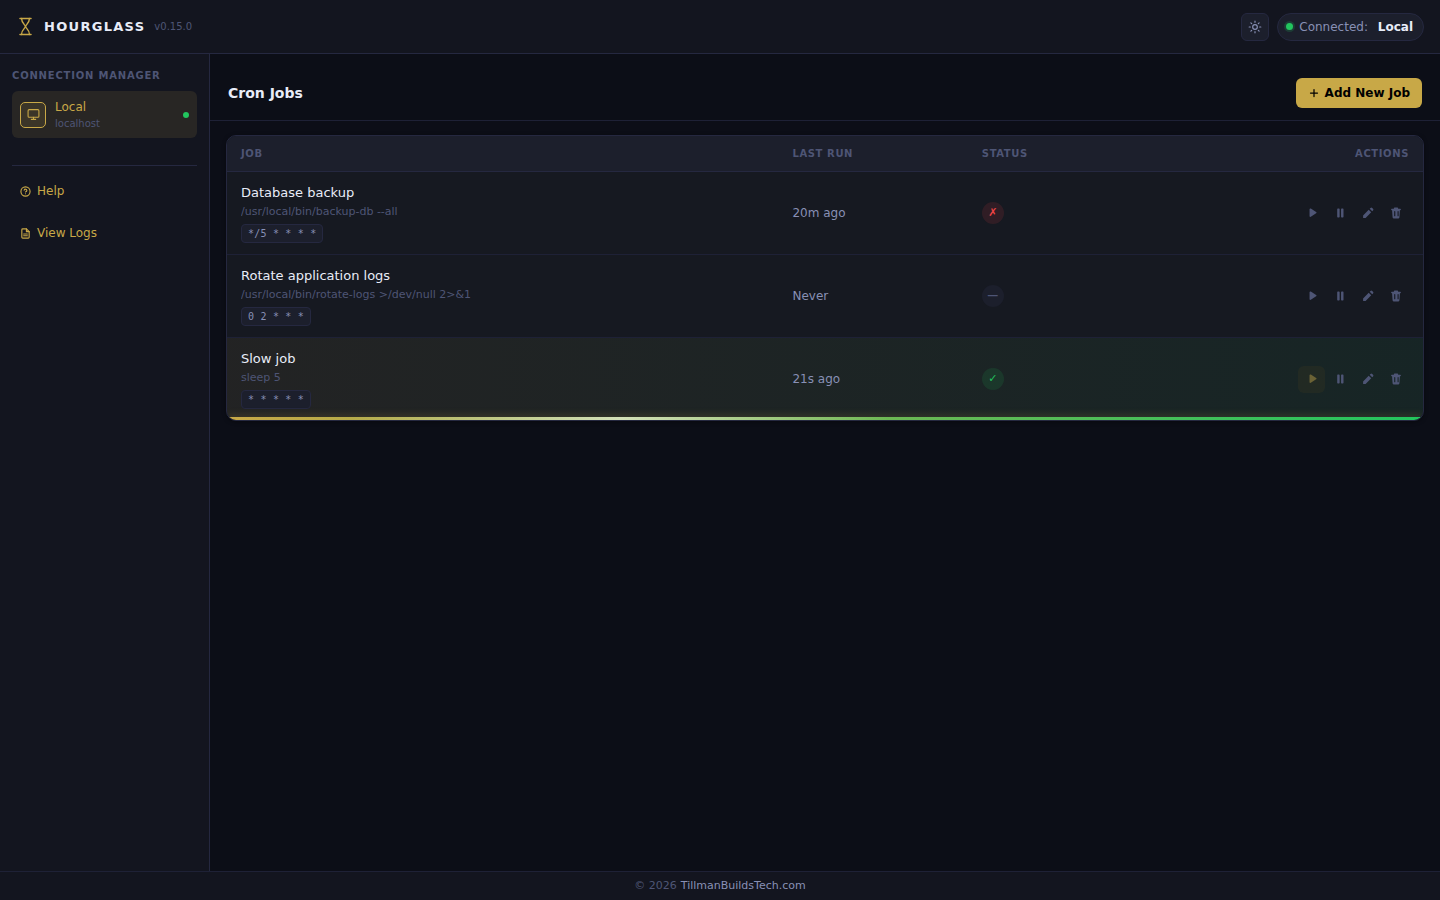
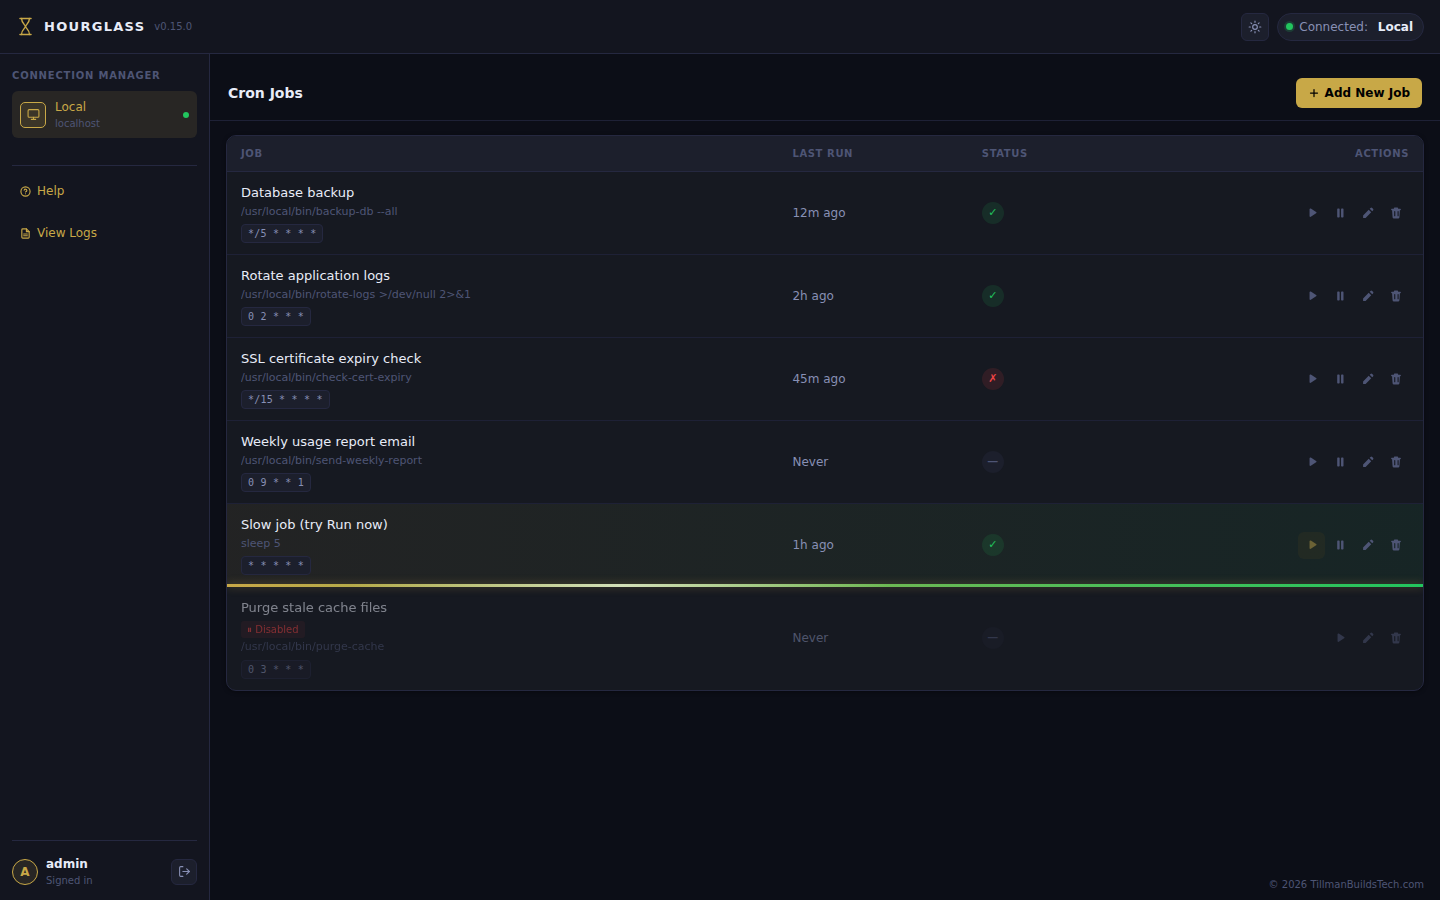
fix(ui): render the copyright as plain text at the bottom of the main view
Drop the full-width footer bar (border-top + background) and show
'© 2026 TillmanBuildsTech.com' as small muted text pinned to the
bottom of the main content column. E2E updated: no .app-footer, no
link, text flush to the bottom of <main>.

diff --git a/e2e/hourglass.spec.js b/e2e/hourglass.spec.js
@@ -62,14 +62,20 @@ test.describe('Hourglass UI', () => {
     await expect(page.locator('#connections-panel .divider')).toHaveCount(2);
   });
 
-  test('shows the TillmanBuildsTech copyright footer at the bottom of the page', async ({ page }) => {
+  test('shows the TillmanBuildsTech copyright as plain text at the bottom of the main view', async ({ page }) => {
     await page.goto('/');
 
-    const footer = page.locator('.app-footer');
-    await expect(footer).toBeVisible();
-    await expect(footer).toContainText('©');
-    await expect(footer).toContainText('TillmanBuildsTech.com');
-    await expect(footer.locator('a[href="https://tillmanbuildstech.com"]')).toHaveCount(1);
+    // No separate footer bar and no link — just text inside the main area.
+    await expect(page.locator('.app-footer')).toHaveCount(0);
+    const copyright = page.locator('main .main-copyright');
+    await expect(copyright).toBeVisible();
+    await expect(copyright).toHaveText('© 2026 TillmanBuildsTech.com');
+    await expect(copyright.locator('a')).toHaveCount(0);
+
+    // Sits flush at the bottom of the main content column.
+    const box = await copyright.boundingBox();
+    const mainBox = await page.locator('main').boundingBox();
+    expect(Math.abs((box.y + box.height) - (mainBox.y + mainBox.height))).toBeLessThan(2);
   });
 
   test('theme toggle shows the action icon: moon in light mode, sun in dark mode', async ({ page }) => {

diff --git a/ui/src/index.css b/ui/src/index.css
@@ -1158,24 +1158,14 @@ table.jobs-table {
   color: var(--red);
 }
 
-/* ── Page footer: copyright (bottom of the page) ── */
-.app-footer {
+/* ── Copyright: plain text at the bottom of the main view ── */
+.main-copyright {
   flex-shrink: 0;
-  display: flex;
-  align-items: center;
-  justify-content: center;
-  gap: 4px;
-  padding: 6px 16px;
-  font-size: 11px;
+  padding: 4px 16px 8px;
+  font-size: 10px;
   color: var(--text-3);
-  border-top: 1px solid var(--border-soft);
-  background: var(--header-bg);
+  text-align: right;
 }
-.app-footer a {
-  color: var(--text-2);
-  text-decoration: none;
-}
-.app-footer a:hover { color: var(--gold); }
 
 /* ── Utility ── */
 .hidden { display: none !important; }

diff --git a/ui/index.html b/ui/index.html
@@ -457,14 +457,11 @@
         </div>
       </div>
 
+      <!-- Copyright: plain text at the bottom of the main view -->
+      <p class="main-copyright">© 2026 TillmanBuildsTech.com</p>
+
     </main>
   </div><!-- .app-body -->
-
-  <!-- ── Page footer ── -->
-  <footer class="app-footer">
-    <span>© 2026</span>
-    <a href="https://tillmanbuildstech.com" target="_blank" rel="noopener">TillmanBuildsTech.com</a>
-  </footer>
 </div><!-- .app-shell -->
 
 <!-- ── View: Login (full-screen overlay, replaces the browser auth prompt) ── -->
